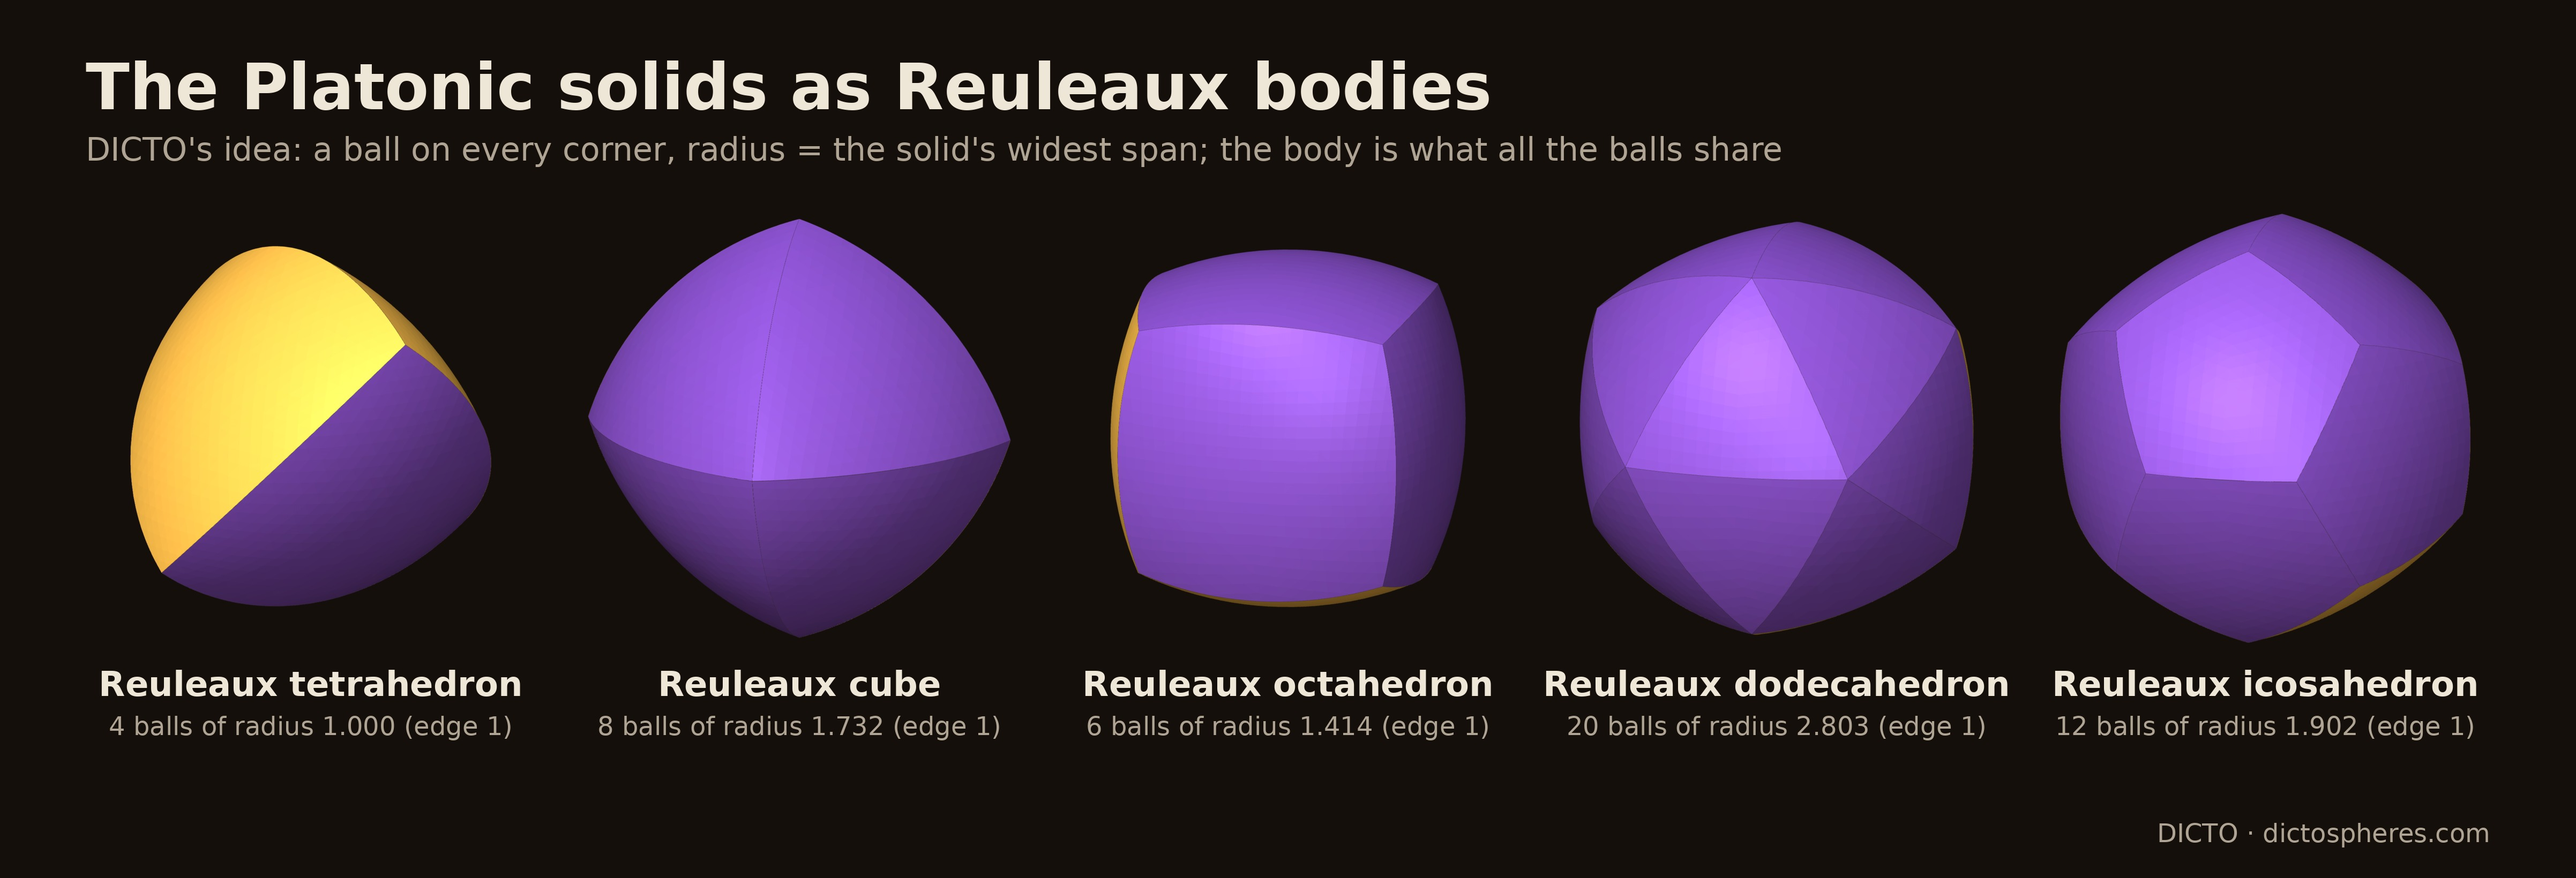
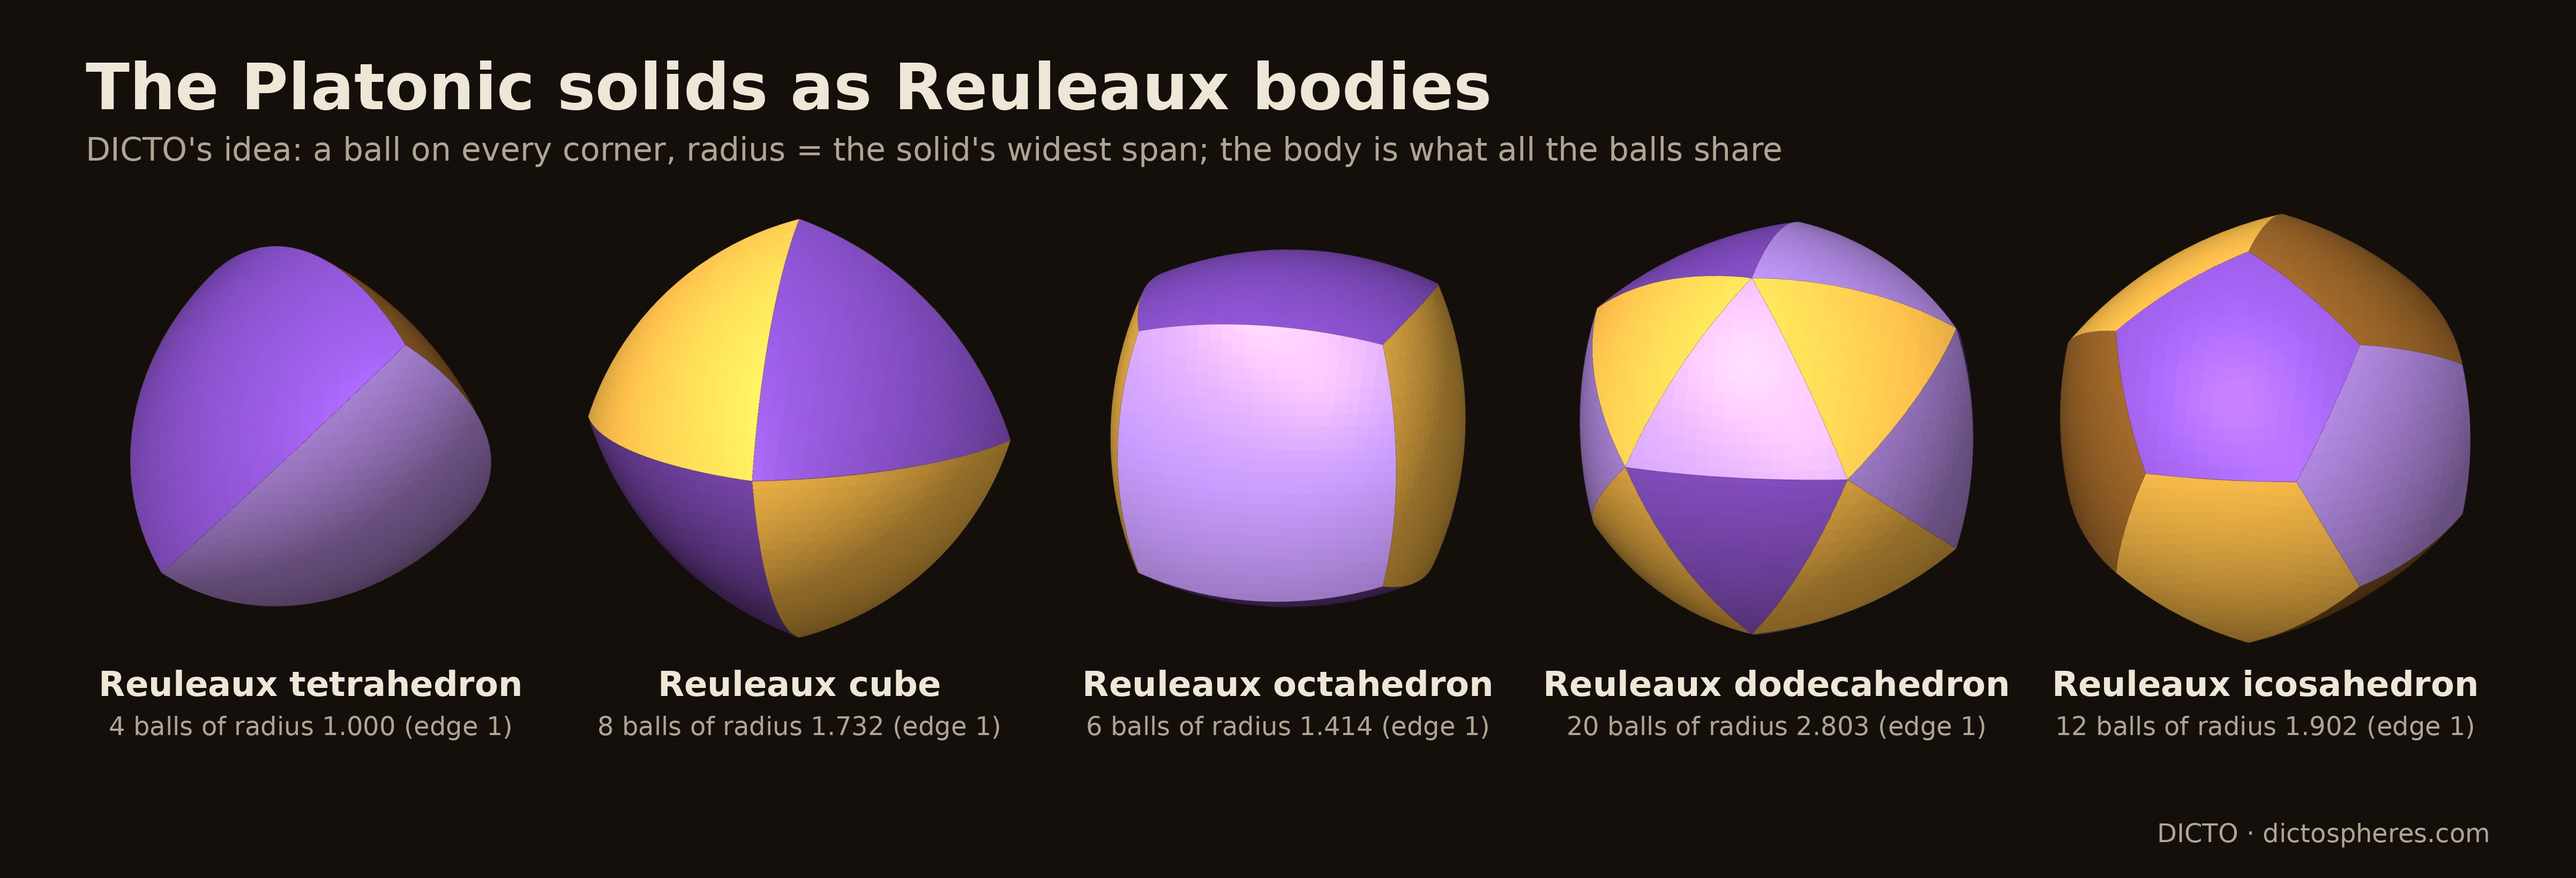
Reuleaux Platonics: proper face colouring (fewest colours per body)

Changed region(s): [[0.4368, 0.2488, 0.9671, 0.7463], [0.0312, 0.2799, 0.1872, 0.7152], [0.2184, 0.2488, 0.4056, 0.7152]]

diff --git a/studies/2026-10-21-reuleaux-platonic/reuleaux_platonic.py b/studies/2026-10-21-reuleaux-platonic/reuleaux_platonic.py
@@ -10,7 +10,7 @@ S = {'Tetrahedron': [p for p in itertools.product((1, -1), repeat=3) if np.prod(
      'Octahedron': [s * e for e in np.eye(3) for s in (1, -1)],
      'Dodecahedron': list(itertools.product((1, -1), repeat=3)) + [w for a, b in itertools.product((1, -1), repeat=2) for w in cyc(np.array([0, a / phi, b * phi]))],
      'Icosahedron': [w for a, b in itertools.product((1, -1), repeat=2) for w in cyc(np.array([0, a, b * phi]))]}
-GOLD, PURPLE = '#d9a441', '#6b3fa0'
+GOLD, PURPLE, LILAC, BRONZE = '#d9a441', '#6b3fa0', '#9a78c8', '#8a5a24'
 rng = np.random.default_rng(0); U = rng.normal(size=(4000, 3)); U /= np.linalg.norm(U, axis=1)[:, None]
 scenes = []
 for name, Vs in S.items():
@@ -22,9 +22,32 @@ for name, Vs in S.items():
     me = body.to_mesh(); P = np.asarray(me.vert_properties[:, :3]); T = np.asarray(me.tri_verts)
     w = (P @ U.T).max(0) - (P @ U.T).min(0)
     X = P[T].mean(1); own = np.argmin(np.abs(np.linalg.norm(X[:, None] - V[None], axis=2) - D), axis=1)   # which ball each patch lies on
-    # colour: the patch on the ball of corner v; corners split into two sets by the parity of their nearest-corner order
-    col = [GOLD if (V[o] @ np.array([1, 2, 3])) > 0 else PURPLE for o in own] if name != 'Tetrahedron' else [GOLD if o % 2 else PURPLE for o in own]
-    print(f'{name:12s} corners {len(V):2d}  diameter {D:.4f}  volume {body.volume():.4f}  width {w.min():.4f}..{w.max():.4f} (ratio {w.max() / w.min():.4f})')
+    # colour: neighbouring faces never share a colour, with the fewest colours the body allows (cube 2, octahedron and dodecahedron 3,
+    # tetrahedron and icosahedron 4), from the gold-and-purple family
+    adj = {o: set() for o in range(len(V))}
+    by = {}
+    for f, tri in enumerate(T):
+        for a, b in ((tri[0], tri[1]), (tri[1], tri[2]), (tri[2], tri[0])): by.setdefault((min(a, b), max(a, b)), []).append(f)
+    from collections import Counter
+    seam = Counter(tuple(sorted((own[fs[0]], own[fs[1]]))) for fs in by.values() if len(fs) == 2 and own[fs[0]] != own[fs[1]])
+    for (a, b), n in seam.items():                            # neighbours share a real seam, not just a point
+        if n >= 6: adj[a].add(b); adj[b].add(a)
+    best = None
+    for k in range(2, 5):                                    # smallest k with a proper colouring (backtracking)
+        cl = {}
+        def go(i, order=sorted(adj, key=lambda o: -len(adj[o]))):
+            if i == len(order): return True
+            o = order[i]
+            for c in range(k):
+                if all(cl.get(n) != c for n in adj[o]):
+                    cl[o] = c
+                    if go(i + 1): return True
+                    del cl[o]
+            return False
+        if go(0): best = dict(cl); break
+    PAL = [GOLD, PURPLE, LILAC, BRONZE]; col = [PAL[best[o]] for o in own]
+    nk = len(set(best.values()))
+    print(f'{name:12s} corners {len(V):2d}  diameter {D:.4f}  volume {body.volume():.4f}  width {w.min():.4f}..{w.max():.4f} (ratio {w.max() / w.min():.4f})  colours {nk}')
     scenes.append({'title': f'Reuleaux {name.lower()}', 'sub': f'{len(V)} balls of radius {D:.3f} (edge 1)', 'parts': [{'v': np.round(P, 5).tolist(), 't': T.tolist(), 'c': col, 'e': None, 'a': 1.0}]})
 for s in scenes:
     pts = np.array(s['parts'][0]['v']); s['E'] = round(float(np.linalg.norm(pts, axis=1).max()) * 1.04, 4)
